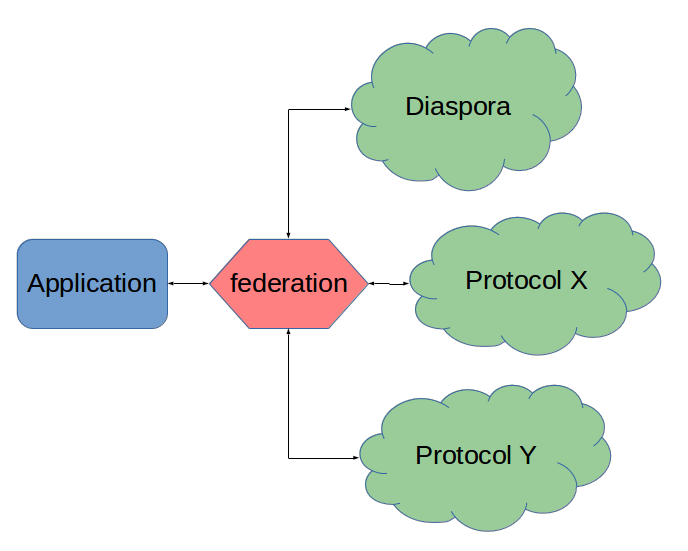
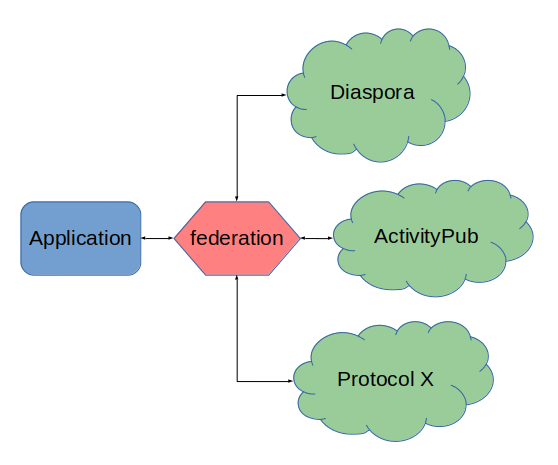
Documentation updates regarding ActivityPub and other things

diff --git a/docs/usage.rst b/docs/usage.rst
@@ -98,6 +98,7 @@ Some ready provided views and URL configuration exist for Django.
 
 Note! Django is not part of the normal requirements for this library. It must be installed separately.
 
+.. autofunction:: federation.entities.activitypub.django.views.activitypub_object_view
 .. autofunction:: federation.hostmeta.django.generators.rfc7033_webfinger_view
 .. autofunction:: federation.hostmeta.django.generators.nodeinfo2_view
 
@@ -116,13 +117,15 @@ Some settings need to be set in Django settings. An example is below:
 
     FEDERATION = {
         "base_url": "https://myserver.domain.tld,
+        "get_object_function": "myproject.utils.get_object",
         "get_profile_function": "myproject.utils.get_profile",
         "nodeinfo2_function": "myproject.utils.get_nodeinfo2_data",
         "search_path": "/search/?q=",
     }
 
 * ``base_url`` is the base URL of the server, ie protocol://domain.tld.
-* ``get_profile_function`` should be the full path to a function that will return a dictionary with profile information. The function should take the following parameters: ``handle``, ``guid`` and ``request``. It should look up a profile with one or more of the provided parameters. It should return a ``Profile`` entity.
+* ``get_object_function`` should be the full path to a function that will return the object matching the ActivityPub ID that is passed to this function. Needed for the ``activitypub_object_view`` decorator.
+* ``get_profile_function`` should be the full path to a function that should return a ``Profile`` entity. The function should take the following parameters: ``handle``, ``guid`` and ``request``. It should look up a profile with one or more of the provided parameters.
 * ``nodeinfo2_function`` (optional) function that returns data for generating a `NodeInfo2 document <https://github.com/jaywink/nodeinfo2>`_. Once configured the path ``/.well-known/x-nodeinfo2`` will automatically generate a NodeInfo2 document. The function should return a ``dict`` corresponding to the NodeInfo2 schema, with the following minimum items:
 
 ::
@@ -140,7 +143,7 @@ Some settings need to be set in Django settings. An example is below:
 Protocols
 ---------
 
-The code for opening and creating protocol messages lives under each protocol module in ``federation.protocols``. Currently Diaspora protocol is the only protocol supported.
+The code for opening and creating protocol messages lives under each protocol module in ``federation.protocols``.
 
 Each protocol defines a ``protocol.Protocol`` class under it's own module. This is expected to contain certain methods that are used by the higher level functions that are called on incoming messages and when sending outbound messages. Everything that is needed to transform an entity into a message payload and vice versa should be here.
 

diff --git a/README.md b/README.md
@@ -6,11 +6,11 @@
 
 # federation
 
-Python library to abstract social web federation protocols like Diaspora.
+Python library to abstract social web federation protocols like Diaspora and ActivityPub.
 
 ## Introduction
 
-The aim of `federation` is to provide and abstract multiple social web protocols like Diaspora in one package. This way applications can be built to (almost) transparently support many protocols without the app builder having to know everything about those protocols.
+The aim of `federation` is to provide and abstract multiple social web protocols like Diaspora and ActivityPub in one package. This way applications can be built to (almost) transparently support many protocols without the app builder having to know everything about those protocols.
 
 While the library does aim to provide an easy way to implement protocols like Diaspora into your application, it will not be a one to one mirror image of said protocols. The idea is to present one unified collection of entities and high level methods to the application to use. Since protocols can support different feature sets or have different ideas on even simple entities like status messages, it would be impossible to model the core entities according to a single protocol.
 
@@ -18,7 +18,7 @@ While the library does aim to provide an easy way to implement protocols like Di
 
 ## Status
 
-Currently the library supports a part of the Diaspora protocol with remaining parts being constantly added. See the [Diaspora](http://federation.readthedocs.io/en/latest/protocols.html#diaspora) protocol page for support status.
+Currently two protocols are being focused on. Diaspora is considered in relatively stable status with most of the protocol implemented. ActivityPub support is work in progress.
 
 The code base is well tested and in use in several projects. Backward incompatible changes will however be made at this stage still, however those will be clearly documented in changelog entries.
 
@@ -42,4 +42,4 @@ See [development and support documentation](http://federation.readthedocs.io/en/
 
 ### Author
 
-Jason Robinson / https://jasonrobinson.me / https://github.com/jaywink / https://git.feneas.org/jaywink
+Jason Robinson / https://jasonrobinson.me / https://git.feneas.org/jaywink / https://github.com/jaywink 

diff --git a/docs/introduction.rst b/docs/introduction.rst
@@ -1,7 +1,7 @@
 Introduction
 ============
 
-The aim of *federation* is to provide and abstract multiple social web protocols like Diaspora in one package. This way applications can be built to (almost) transparently support many protocols without the app builder having to know everything about those protocols.
+The aim of *federation* is to provide and abstract multiple social web protocols like Diaspora and ActivityPub in one package. This way applications can be built to (almost) transparently support many protocols without the app builder having to know everything about those protocols.
 
 While the library does aim to provide an easy way to implement protocols like Diaspora into your application, it will not be a one to one mirror image of said protocols. The idea is to present one unified collection of entities and high level methods to the application to use. Since protocols can support different feature sets or have different ideas on even simple entities like status messages, it would be impossible to model the core entities according to a single protocol.
 
@@ -10,7 +10,7 @@ While the library does aim to provide an easy way to implement protocols like Di
 Status
 ------
 
-Currently the library supports a part of the Diaspora protocol with remaining parts being constantly added. See the `Diaspora <http://federation.readthedocs.io/en/latest/protocols.html#diaspora>`_ protocol page for support status.
+Currently two protocols are being focused on. Diaspora is considered in relatively stable status with most of the protocol implemented. ActivityPub support is work in progress.
 
 The code base is well tested and in use in several projects. Backward incompatible changes will however be made at this stage still, however those will be clearly documented in changelog entries.
 
@@ -40,5 +40,5 @@ License
 Author
 ......
 
-Jason Robinson / `jasonrobinson.me <https://jasonrobinson.me>`_ / `GitHub <https://github.com/jaywink>`_ / `GitLab <https://git.feneas.org/jaywink>`_
+Jason Robinson / `jasonrobinson.me <https://jasonrobinson.me>`_ / `GitLab <https://git.feneas.org/jaywink>`_ / `GitHub <https://github.com/jaywink>`_
 

diff --git a/docs/protocols.rst b/docs/protocols.rst
@@ -1,22 +1,25 @@
 Protocols
 =========
 
+Currently two protocols are being focused on. Diaspora is considered in relatively stable status with most of the protocol implemented. ActivityPub support is work in progress.
+
+For example implementations in real life projects check :ref:`example-projects`.
+
 .. _diaspora:
 
 Diaspora
 --------
 
-Currently the library supports a part of the protocol with remaining parts being constantly added.
+This library only supports the `current renewed version <http://diaspora.github.io/diaspora_federation/>`_ of the protocol. Compatibility for the legacy version was dropped in version 0.18.0.
 
-Note! Diaspora project is currently rewriting parts of the protocol. This library aims to support the `new version <http://diaspora.github.io/diaspora_federation/>`_. When possible, compatibility will be kept with the current and legacy versions but this is not the main objective.
+The feature set supported is the following:
 
-The feature set supported by this release is approximately the following:
-
-* WebFinger, hCard and other discovery documents
+* Webfinger, hCard and other discovery documents
 * NodeInfo 1.0 documents
 * Social-Relay documents
 * Magic envelopes, signatures and other transport method related necessities
 * Entities as follows:
+
    * Comment
    * Like
    * Photo
@@ -26,6 +29,15 @@ The feature set supported by this release is approximately the following:
    * Contact
    * Reshare
 
-Implementation unfortunately currently requires knowledge of how Diaspora discovery works as the implementer has to implement all the necessary views correctly (even though this library provides document generators). However, the magic envelope, signature and entity building is all abstracted inside the library.
+.. _activitypub:
 
-For example implementations in real life projects check :ref:`example-projects`.
+ActivityPub
+-----------
+
+Features currently supported:
+
+* Webfinger
+* Entities as follows:
+
+   * Profile
+   * Post

diff --git a/docs/example_projects.rst b/docs/example_projects.rst
@@ -5,5 +5,6 @@ Projects using federation
 
 For examples on how to integrate this library into your project, check these examples:
 
-* `Socialhome <https://github.com/jaywink/socialhome>`_ - a federated home page builder slash personal social network server with high emphasis on card style content visualization.
-* `Social-Relay <https://github.com/jaywink/social-relay>`_ - a reference server for the public content relay system that uses the Diaspora protocol.
+* `Socialhome <https://socialhome.network>`_ - a federated home page builder slash personal social network server with high emphasis on card style content visualization.
+* `Social-Relay <https://git.feneas.org/jaywink/social-relay>`_ - a reference server for the public content relay system that uses the Diaspora protocol.
+* `The Federation info <https://the-federation.info>`_ - statistics and node list for the federated web.

diff --git a/docs/development.rst b/docs/development.rst
@@ -34,8 +34,6 @@ Built documentation is available at ``docs/_build/html/index.html``.
 Contact for help
 ----------------
 
-Easiest via FreeNode IRC, channel ``#python-federation`` (`webchat here <http://webchat.freenode.net?channels=%23python-federation&uio=d4>`_).
-
-There is also a `Gitter chat <https://gitter.im/python-federation/Lobby>`_ available.
+Easiest via Matrix on channel ``#socialhome:matrix.org``.
 
 You can also ask questions or give feedback via issues.
